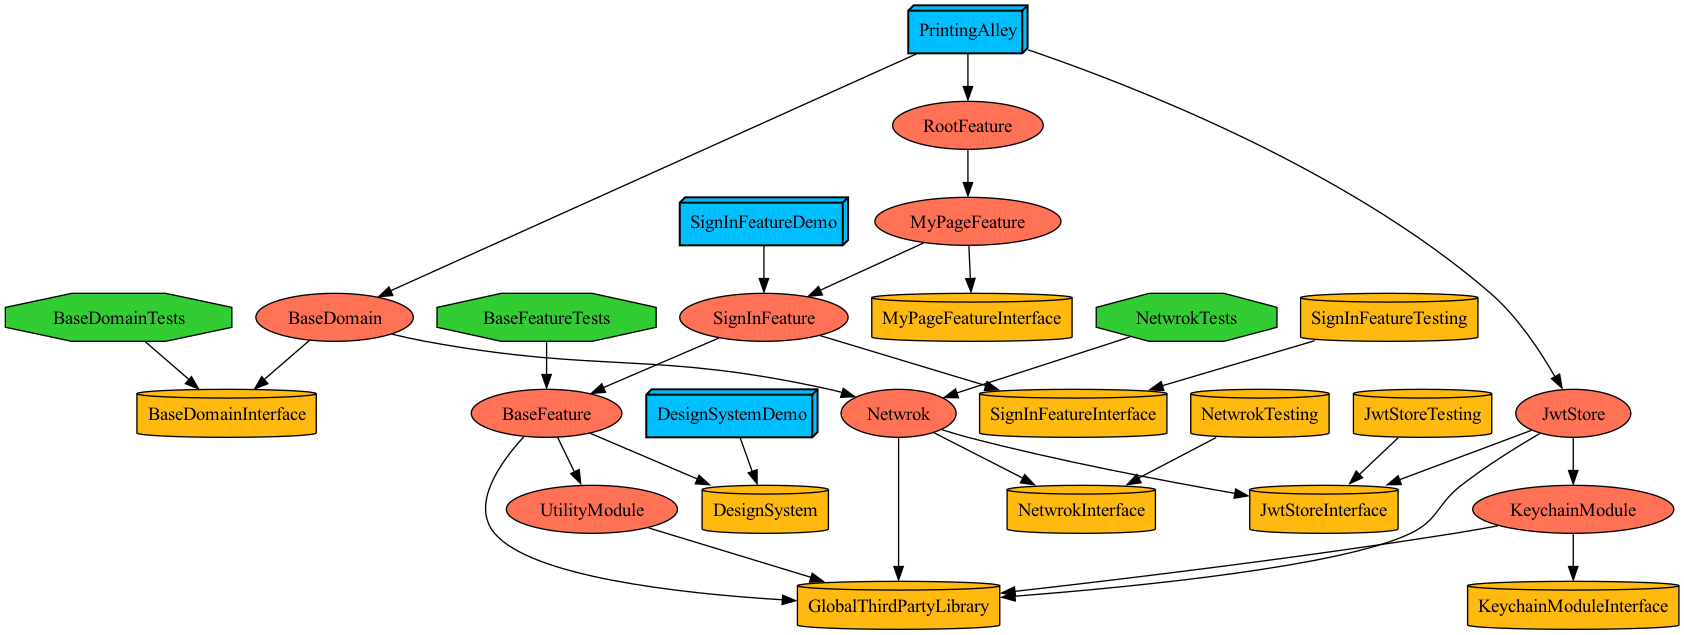
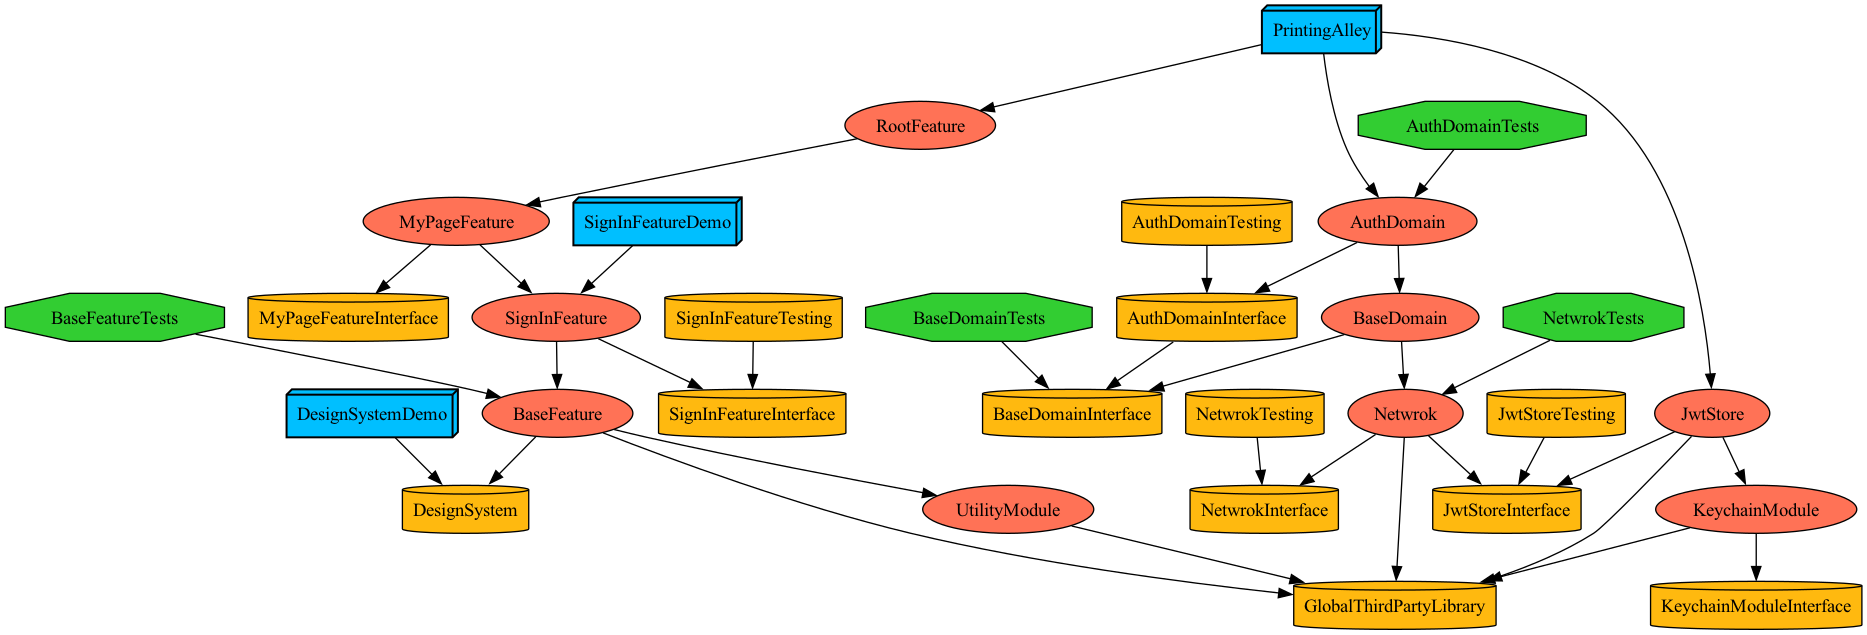
:film_projector: :: 디펜던시 변경
- App -> BaseDomain(제거)
- App -> AuthDomain(추가)

diff --git a/Projects/App/Project.swift b/Projects/App/Project.swift
@@ -30,7 +30,7 @@ let targets: [Target] = [
         scripts:  generateEnvironment == .dev ? projectDevScripts : scripts, // 니들로 인하여 기본 스크립트와 분리 
         dependencies: [
             .feature(target: .RootFeature),
-            .domain(target: .BaseDomain), // TODO: 임시 디펜던시
+            .domain(target: .AuthDomain), // TODO: 임시 디펜던시
             .core(target: .JwtStore)
         ],
         settings: .settings(base: env.baseSetting)

diff --git a/Plugin/DependencyPlugin/ProjectDescriptionHelpers/ModulePaths.swift b/Plugin/DependencyPlugin/ProjectDescriptionHelpers/ModulePaths.swift
@@ -33,6 +33,7 @@ public extension ModulePaths {
 
 public extension ModulePaths {
     enum Domain: String, MicroTargetPathConvertable {
+        case AuthDomain
         case BaseDomain
     }
 }
